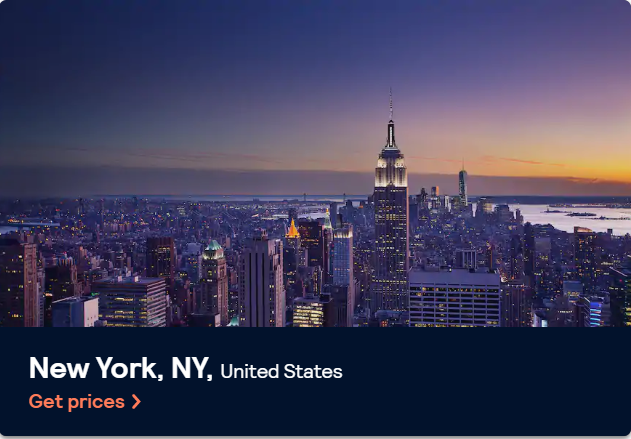
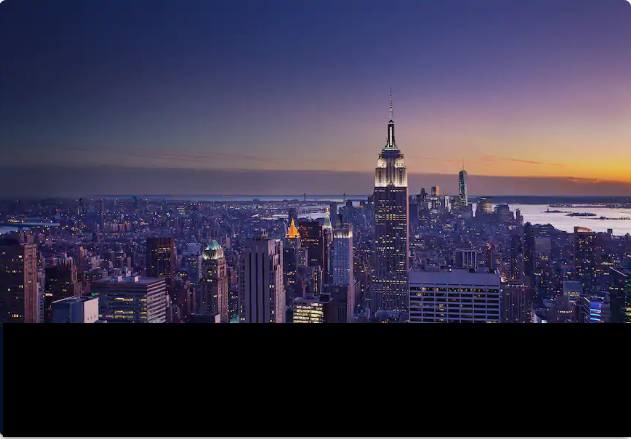
images update

Changed region(s): [[0.0, 0.7107, 1.0, 1.0]]

diff --git a/thub.html b/thub.html
@@ -112,34 +112,130 @@
   </div>
 </div>
   </div>
-<section>
-  <div class="flex-header">
-     <h3>Recommendations for you</h3>
-     <a href="#" class="search-text">Search you</a>
-  </div>
-    <div class="grid-container">
-      <div class="grid1 s-1">
-        <div class="box-content">
-          <h2>New York, NY, united states</h2>
-          <p>Get price <i class="fa fa-arror"></i></p>
+      <section>
+        <div class="flex-header">
+          <h3>Recommendations for you</h3>
+          <a href="#" class="search-text">Search everywhere <i class="fa fa-arrow-right"></i></a>
+        </div>
+          <div class="grid-container">
+            <div class="grid1 hvr-grow s-1">
+              <div class="box-content">
+                <h2>New York, NY, united states</h2>
+                <p>Get price <i class="fa fa-arror"></i></p>
+              </div>
+              
+            </div>
+            <div class="grid2 hvr-grow s-1">
+              <div class="box-content">
+                <h2>New York, NY, united states</h2>
+                <p>Get price <i class="fa fa-arror"></i></p>
+              </div>
+            </div>
+            <div class="grid3 hvr-grow s-1">
+              <div class="box-content">
+                <h2>New York, NY, united states</h2>
+                <p>Get price <i class="fa fa-arror"></i></p>
+              </div>
+            </div>
+          </div>
+      </section>
+
+      <section>
+        <div class="flex-header2">
+          <div class="bind">
+            <h3>Recommendations for you</h3>
+           <p>Get inspired</p>
+          </div>
+           
+           <a href="#" class="search-text">Search everywhere <i class="fa fa-arrow-right"></i></a>
+        </div>
+          <div class="grid-container2">
+            <div class="grid1 s-1">
+              <div class="box-content">
+                <h2>New York, NY, united states</h2>
+                <p>Get price <i class="fa fa-arror"></i></p>
+              </div>
+              
+            </div>
+          </div>
+      </section>
+
+      <!-- June deals -->
+      <section>
+        <div class="flex-header">
+          <h3>JUNE deals</h3>
+          <a href="#" class="search-text">Search everywhere <i class="fa fa-arrow-right"></i></a>
+        </div>
+          <div class="grid-container3">
+            <div class="grid1 hvr-grow s-1">
+              <div class="box-content">
+                <h2>New York, NY, united states</h2>
+                <p>Get price <i class="fa fa-arror"></i></p>
+              </div>
+              
+            </div>
+            <div class="grid2 hvr-grow s-1">
+              <div class="box-content">
+                <h2>New York, NY, united states</h2>
+                <p>Get price <i class="fa fa-arror"></i></p>
+              </div>
+            </div>
+            <div class="grid3 hvr-grow s-1">
+              <div class="box-content">
+                <h2>New York, NY, united states</h2>
+                <p>Get price <i class="fa fa-arror"></i></p>
+              </div>
+            </div>
+          </div>
+      </section>
+
+      <!-- This line of code is the blue bg before footer -->
+      <section class="footer">
+        <div class="subscribe">
+          <h1>Join our news letter</h1>
+          <span>
+            <input class="basic-slide" id="class" type="text" placeholder="Enter your email" /><label for="class">Go</label>
+          </span>
+        </div>
+        <div class="footer1-div">
+          <div class="div-box">
+            <h3 class="h3-divs">Categories</h3>
+            <ul>
+                <li>Music Events</li>
+                <li>Commedy Events</li>
+                <li>Life show Events</li>
+                <li>Fashion Events </li>
+                <li>Life show events </li>
+                <li>flights Tickets worldwide</li>
+            </ul>
+          </div>
+  
+        <!-- Patners -->
+        <div class="div-box">
+          <h3 class="h3-divs">More about us</h3>
+          <ul>
+              <li>About us</li>
+              <li>Advertise with us </li>
+              <li>Services </li>
+              <li>Privacy Policies </li>
+              <li>Machandise </li>
+              <li>Contact us</li>
+          </ul>
         </div>
         
-      </div>
-      <div class="grid2 s-1">
-        <div class="box-content">
-          <h2>New York, NY, united states</h2>
-          <p>Get price <i class="fa fa-arror"></i></p>
+        <!-- Help -->
+        <div class="div-box-right">
+          <h3 class="h3-right-text">Connect with us </br></br> on social media</h3>
+          <ul>
+              <li class="fa fa-facebook"></li>
+              <li class="fa fa-twitter"></li>
+              <li class="fa fa-instagram"></li>
+              <li class="fa fa-linkedin"></li>
+          </ul>
         </div>
-      </div>
-      <div class="grid3 s-1">
-        <div class="box-content">
-          <h2>New York, NY, united states</h2>
-          <p>Get price <i class="fa fa-arror"></i></p>
         </div>
-      </div>
-    </div>
-</section>
-
+      </section>
+    
 
 
 <!-- partial -->

diff --git a/main.css b/main.css
@@ -17,7 +17,7 @@ body{
 }
 .top-info{
     padding-top:39px;
-    background-color: #E16223;
+    background-color: #0d5085;
     height: 60px;
   }
 .top-info p{
@@ -129,7 +129,7 @@ body{
     width: 100%;
   }
   .search-area{
-    background-color: chartreuse;
+    background-color: #e16223;
     width: 80%;
     margin: 0 auto;
     border-radius: 9px;
@@ -159,6 +159,7 @@ body{
    font-weight: 700;
    margin-left: 170px;
    margin-bottom: -20px;
+   font-family: Heebo;
  }
  .wrap-search-area{
    margin-top: 30px;
@@ -220,7 +221,7 @@ body{
   section{
     margin: 0 auto;
     width: 65%;
-    padding: 2rem;
+    padding: 1rem;
   }
   .flex-header{
     display: flex;
@@ -228,28 +229,84 @@ body{
     align-items: flex-end;
     margin: 4px 60px;
   }
+  .flex-header h3{
+    font-size: 1.454rem;
+    color: black;
+    line-height: 2.876rem;
+  }
+  .flex-header2 h3{
+    font-size: 1.454rem;
+    color: black;
+    line-height: 2.876rem;
+  }
+  .flex-header a{
+    text-decoration: none;
+    font-size: 1rem;
+    line-height: 2.876rem;
+  }
+  .flex-header2{
+    display: flex;
+    flex-direction: row;
+    justify-content: space-between;
+    padding-left: 40px;
+    width: 90%;
+    margin-top: 0;
+  }
+  .flex-header2 a{
+    text-decoration: none;
+    font-size: 1rem;
+    line-height: 2.876rem;
+  }
+  .bind{
+    padding-bottom: 10px;
+  }
   .grid-container{
     display: grid;
     padding: 2rem;
     grid-gap: 2rem;
     grid-template-columns: auto 25% 25%;
     padding-top: 0;
+  } .grid-container3{
+    display: grid;
+    padding: 2rem;
+    grid-gap: 2rem;
+    grid-template-columns: 1fr 1fr 1fr;
+    padding-top: 0;
+  }
+  .grid-container2{
+    display: grid;
+    grid-template-columns: 1fr;
   }
   .s-1{
-    border-radius: .3rem;
+    position: relative;
+    border-radius: .8rem;
     box-shadow: 10px 10px 30px rgba(0, 0, 0, 0.1 );
   }
+  .s-1:after{
+    content: '';
+    position: absolute;
+    bottom: 0;
+    height: 5rem;
+    width: 100%;
+    background-color: #e16223;
+    border-bottom-left-radius: .8rem;
+    border-bottom-right-radius: .8rem;
+  }
  .box-content{
+   position: absolute;
+   bottom: 0;
    margin-left: 10px;
-   text-align: inherit;
-   padding-top: 340px;
    overflow: hidden;
+   color: white;
+   font-size: .865rem;
+   padding-bottom: 15px;
+   z-index: 2;
  }
   .search-text{
     color: red;
   }
   .grid1, .grid2, .grid3{
-    background-image: url("./b.PNG"); /* The image used */
+    background-image: url("./bb.PNG"); /* The image used */
     background-color: #cccccc; /* Used if the image is unavailable */
     background-position: center; /* Center the image */
     height: 40vh;
@@ -257,7 +314,96 @@ body{
     background-repeat: no-repeat; /* Do not repeat the image */
     background-size: cover; /* Resize the background image to cover the entire container */
   }
-  
+  .footer1-div{
+    display: flex;
+    justify-content: space-around;
+    flex-direction: row;
+    line-height: 1.5rem;
+
+  }
+  .h3-divs{
+    font-size: 1.5rem;
+    line-height: 3rem;
+    color: #e16223;
+    font-family: Heebo;
+  }
+  .footer{
+    width: 100vw;
+    background-color: #02122c;
+  }
+  .footer > div{
+    color: white;
+  }
+  .subscribe{
+    display: flex;
+    flex-direction: column;
+    align-items: center;
+    position: relative;
+  }
+
+  .basic-slide{
+    width: 360px;
+    margin-top: 13px;
+    padding: 10px 0 10px 15px;
+    font-family: Heebo;
+    font-weight: 400;
+    color: #e16223;
+    background: #efefef;
+    border: 0;
+    border-radius: 3px;
+    outline: 0;
+    text-indent: 70px;
+    transition: all .3s ease-in-out;
+  }
+  .basic-slide::-webkit-input-placeholder {
+    color: #e16223;
+    text-indent: 0;
+    font-weight: 300;
+  }
+  .basic-slide + label {
+    position: absolute;
+    top: 0;
+    margin-top: 39px;
+    margin-left: 374px;
+    padding: 14px 15px;
+    text-shadow: 0 1px 0 rgba(19, 74, 70, 0.4);
+    background: #ee5e08;
+    transition: all .3s ease-in-out;
+    border-top-right-radius: 3px;
+    border-bottom-right-radius: 3px;
+  }
+  .basic-slide:focus,
+  .basic-slide:active {
+  color: #e16223;
+  text-indent: 0;
+  background: #fff;
+  border-top-left-radius: 0;
+  border-bottom-left-radius: 0;
+}
+.basic-slide:focus::-webkit-input-placeholder,
+.basic-slide:active::-webkit-input-placeholder {
+  color: #aaa;
+}
+.basic-slide:focus + label,
+.basic-slide:active + label {
+  transform: translateX(-100%);
+}
+.div-box-right{
+  background-color: #e16223;
+  border-radius: 8px;
+  min-width: 320px;
+}
+.div-box-right ul{
+  margin-top: 60px;
+}
+.div-box-right ul li{
+  display: inline;
+}
+.h3-right-text{
+  color: white;
+  padding-top: 20px;
+}
+
  /* while reducing to 786px, display red--for regular mobile phone*/
   @media screen and (max-width: 768px){
     .info-paragraph{
